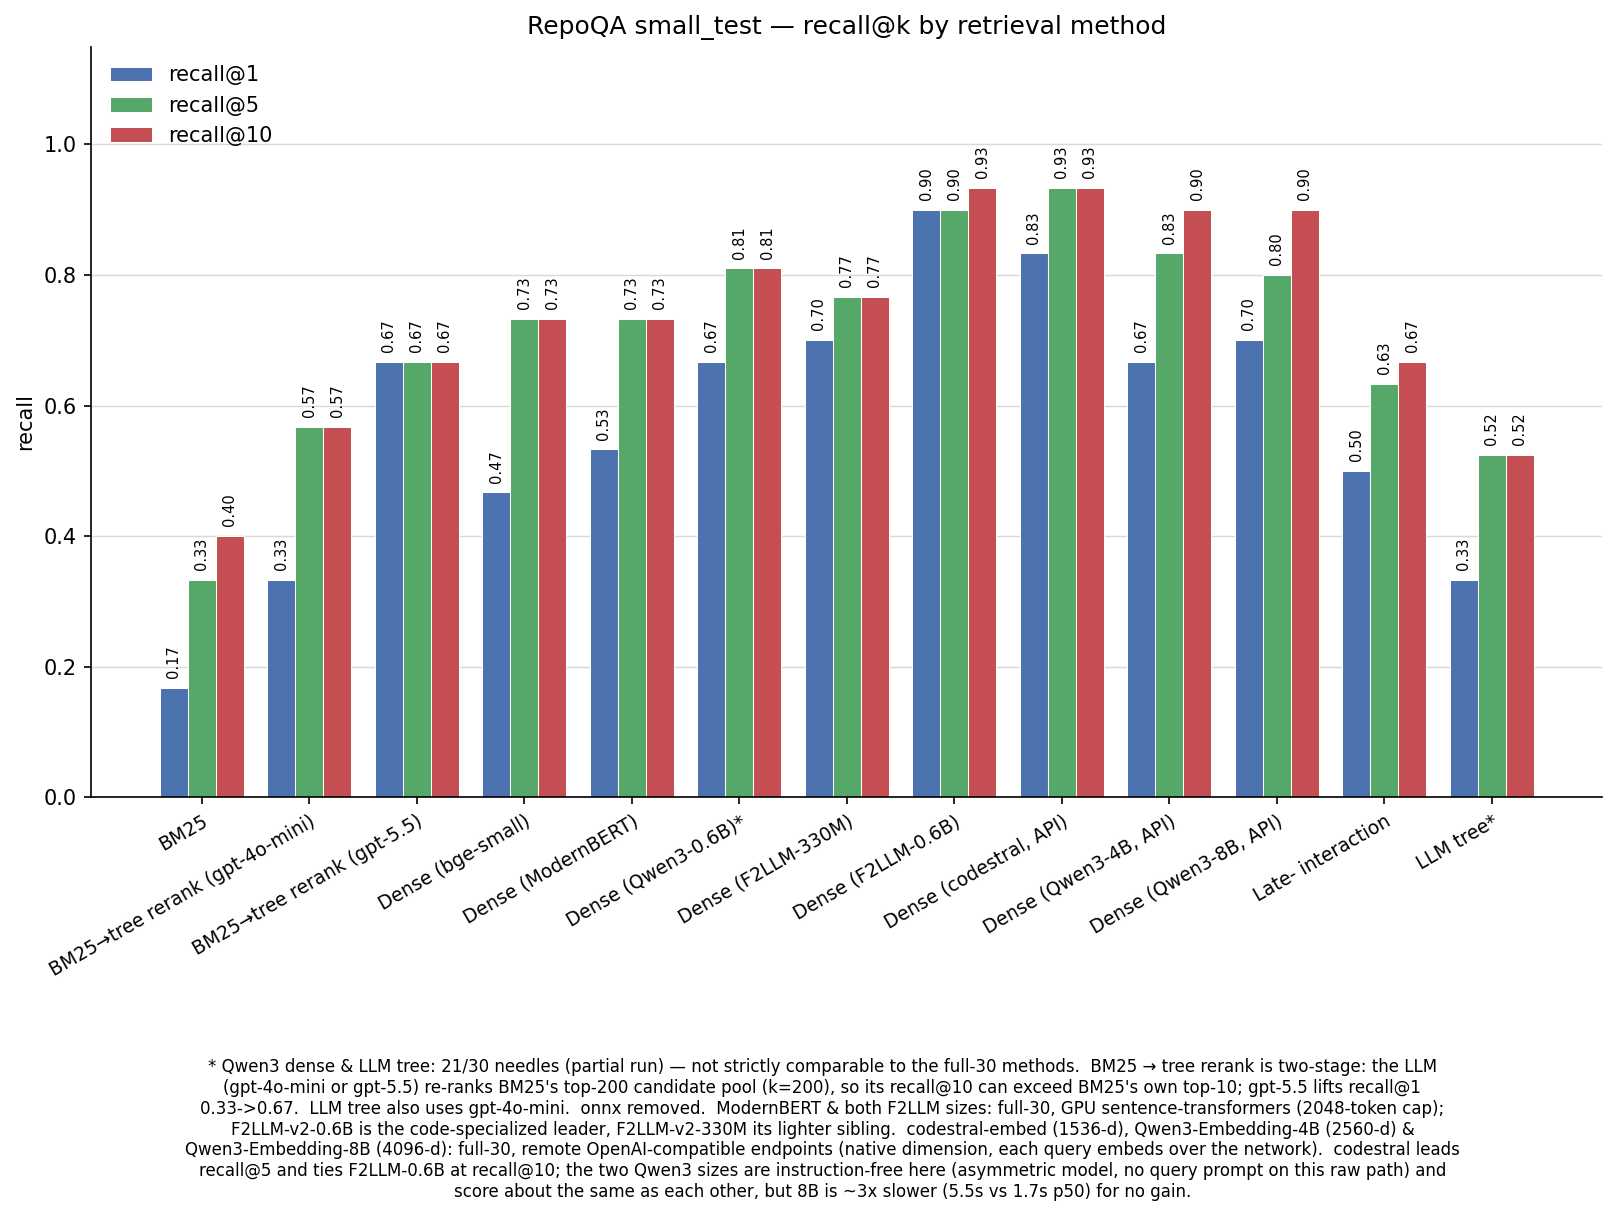
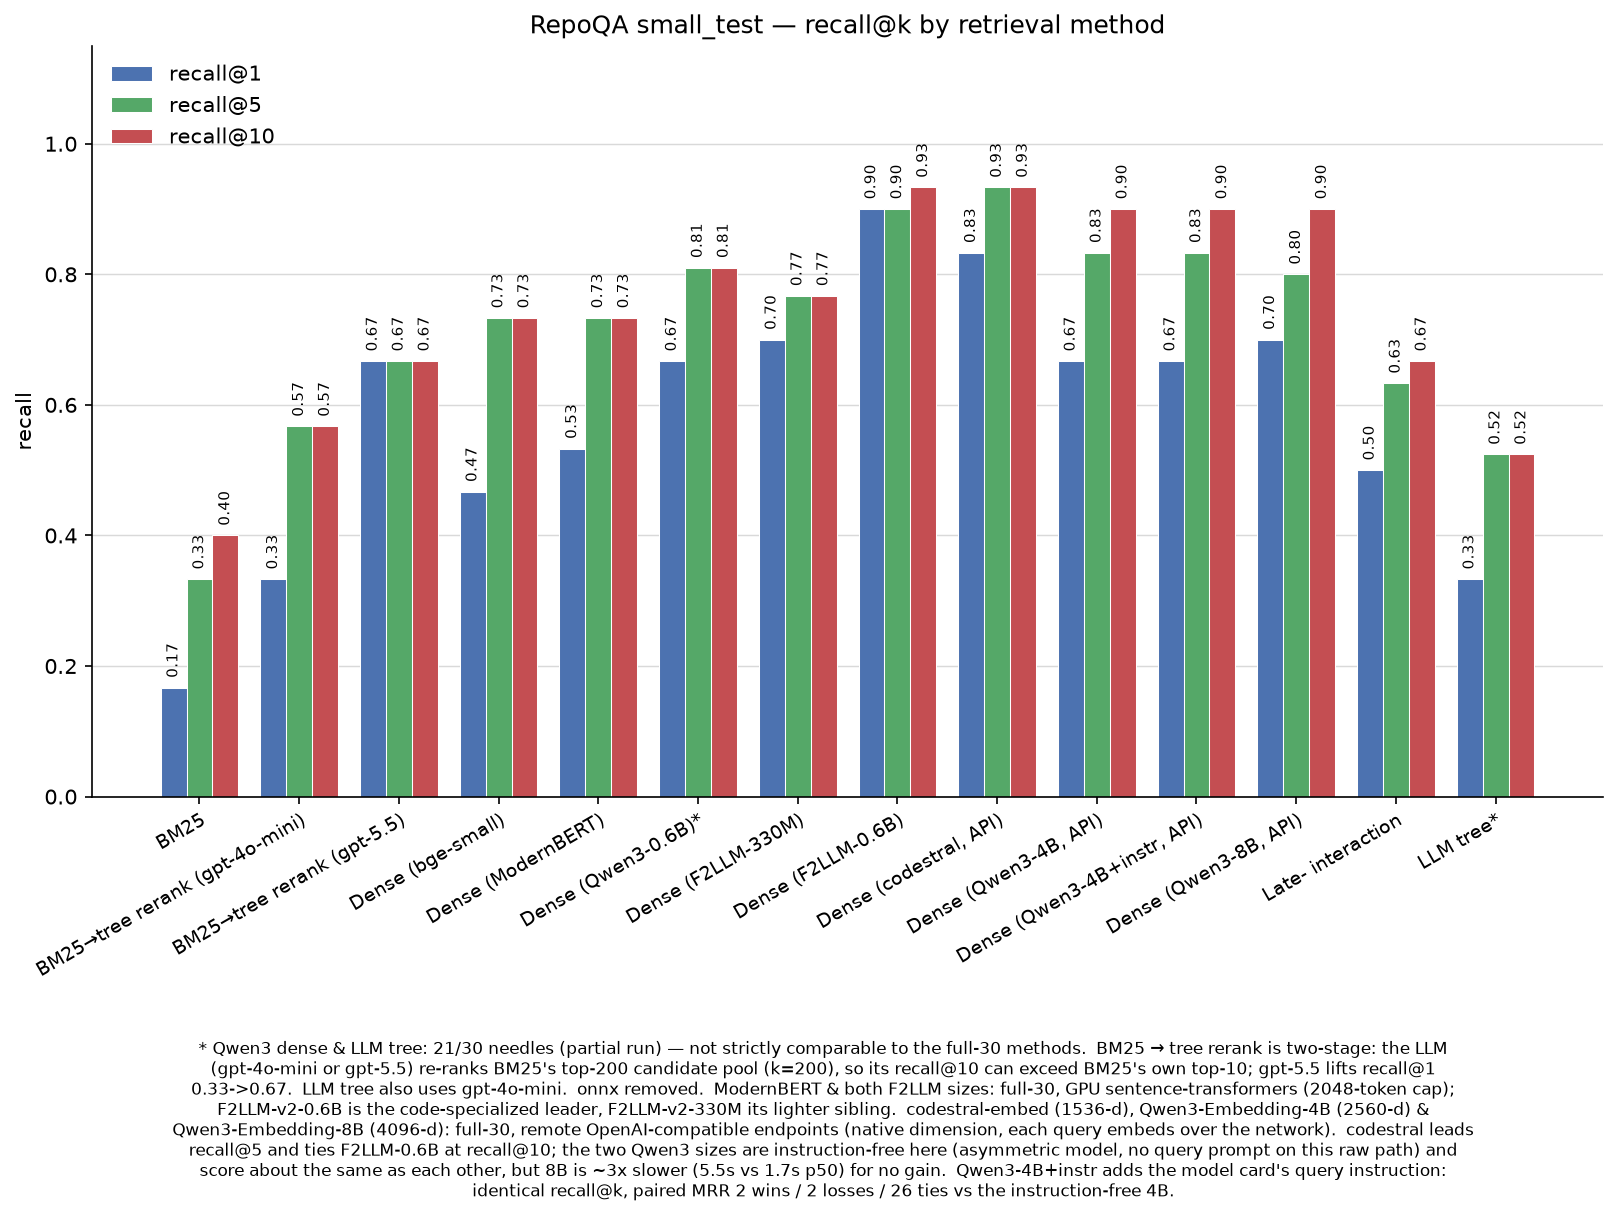
bench(embedding): RepoQA comparison — Qwen3-4B query instruction
Paired RepoQA small_test sweep (30 needles) over three arms:
qwen3_4b (instruction-free), qwen3_4b_instruct (the model card's generic
query instruction via embedding.query_prefix), and the qwen3_4b_rerun
A/A arm. All three share one ingestion hash; only the instruct arm's
query identity differs.

- recall@1/5/10 are the same in every arm (0.667 / 0.833 / 0.900).
- instruct MRR is 0.751 vs 0.740. Paired MRR is 2 wins, 2 losses and
  26 ties (sign test p = 1.0). recall@5 and recall@10 tie on all 30
  needles.
- The A/A arm has 0 discordant needles, so the endpoint is deterministic.

No paired gain, so the full test split and the repoqa-structural gate
were not run. query_prefix is not a recommended setting for Qwen3-4B on
this workload; the product default stays None. Embedding spend was about
$0.44.

Records the row in baselines/method_comparison.json, regenerates both
charts, corrects the README takeaway that blamed the missing instruction
for recall@1, and documents the numbers in the candidate config header.

diff --git a/benchmarks/scripts/plot_method_comparison.py b/benchmarks/scripts/plot_method_comparison.py
@@ -65,7 +65,9 @@ _BAR_FOOTNOTE = (
     "full-30, remote OpenAI-compatible endpoints (native dimension, each query embeds over "
     "the network).  codestral leads recall@5 and ties F2LLM-0.6B at recall@10; the two Qwen3 "
     "sizes are instruction-free here (asymmetric model, no query prompt on this raw path) and "
-    "score about the same as each other, but 8B is ~3x slower (5.5s vs 1.7s p50) for no gain."
+    "score about the same as each other, but 8B is ~3x slower (5.5s vs 1.7s p50) for no gain.  "
+    "Qwen3-4B+instr adds the model card's query instruction: identical recall@k, paired "
+    "MRR 2 wins / 2 losses / 26 ties vs the instruction-free 4B."
 )
 _SCATTER_FOOTNOTE = (
     "Per-needle p50 search latency (excludes one-time indexing).  Local methods are "
@@ -150,6 +152,10 @@ _LABEL_OFFSETS: dict[str, tuple[int, int]] = {
     # Qwen3-4B & Qwen3-8B sit at the same recall@10 (0.90); drop the 4B label
     # below its dot so its rightward text does not collide with the 8B label.
     "Dense (Qwen3-4B, API)": (4, -16),
+    # The instructed 4B also sits at recall@10 0.90, just left of codestral
+    # (1.19s, 0.93). Labels right of or below it collide with codestral, the
+    # 4B and Qwen3-0.6B, so put it LEFT of its dot, where the band is empty.
+    "Dense (Qwen3-4B+instr, API)": (-165, -4),
 }
 _DEFAULT_LABEL_OFFSET = (9, 5)
 

diff --git a/benchmarks/README.md b/benchmarks/README.md
@@ -631,6 +631,7 @@ live in [`notebooks/`](../notebooks/)). Higher is better.
 | **Dense (F2LLM-v2-0.6B, 1024-d)** | `dense_f2llm.yaml` | **0.900** | **0.900** | **0.933** | **0.906** | 30 |
 | **Dense (codestral-embed, 1536-d, remote API)** | `codestral.yaml` | 0.833 | **0.933** | **0.933** | 0.883 | 30 |
 | Dense (Qwen3-Embedding-4B, 2560-d, remote API) | `qwen3_4b.yaml` | 0.667 | 0.833 | 0.900 | 0.740 | 30 |
+| Dense (Qwen3-Embedding-4B + query instruction, remote API) | `qwen3_4b_instruct.yaml` | 0.667 | 0.833 | 0.900 | 0.751 | 30 |
 | Dense (Qwen3-Embedding-8B, 4096-d, remote API) | `qwen3_8b.yaml` | 0.700 | 0.800 | 0.900 | 0.751 | 30 |
 | Late-interaction (ColBERT / MaxSim) | `li.yaml` | 0.500 | 0.633 | 0.667 | 0.549 | 30 |
 | LLM tree reasoning (gpt-4o-mini) | `tree.yaml` | 0.333 | 0.524 | 0.524 | 0.398 | 21\* |
@@ -652,12 +653,19 @@ live in [`notebooks/`](../notebooks/)). Higher is better.
 > (~1.2–5.5s) is one-to-two orders of magnitude above the on-device dense
 > embedders. **Qwen3-Embedding is asymmetric** — it expects an instruction
 > prepended to queries — but this raw API path sends the query text verbatim (no
-> instruction), so both Qwen3 API rows are **instruction-free baselines** and
-> understate the models' instruction-tuned ceiling. The on-device Qwen3-0.6B row
+> instruction), so the `qwen3_4b.yaml` and `qwen3_8b.yaml` rows are
+> **instruction-free baselines**. The on-device Qwen3-0.6B row
 > (`dense_st.yaml`) is *not* instruction-free: sentence-transformers'
 > `encode_query` applies the checkpoint's generic web-search query prompt
-> automatically. `qwen3_4b_instruct.yaml` adds that same instruction to the 4B
-> API path via `embedding.query_prefix`.
+> automatically. `qwen3_4b_instruct.yaml` adds that same model-card instruction
+> to the 4B API path via `embedding.query_prefix` (queries only; documents and
+> the index are unchanged). It was run in the same sweep as a fresh `qwen3_4b.yaml`
+> arm and an identical A/A re-run. The A/A arm matched the baseline on all 30
+> needles, so the endpoint is deterministic. The instruction changed the rank on
+> only 4 of 30 needles: 2 moved up and 2 moved down, and no needle moved into or
+> out of the top 5 or top 10. MRR went from 0.740 to 0.751, which is not
+> significant. The latency gap is network variance: in that sweep the baseline
+> p50 was 1.37 s and the A/A p50 was 1.33 s.
 > **BM25 → tree rerank** is the lone two-stage method: the LLM (gpt-4o-mini or
 > gpt-5.5) re-ranks BM25's **top-200** candidate pool (`k=200`), which is why its
 > recall@10 can exceed BM25's own top-10; the rest are single-stage. Swapping the
@@ -708,10 +716,11 @@ is not better.** Both the 4B (2560-d) and 8B (4096-d) reach recall@10 **0.90** b
 only recall@1 **0.67–0.70** / recall@5 **0.80–0.83** / MRR **0.74–0.75**, and in a
 paired per-needle comparison **codestral wins or ties every one of the 30 needles**
 against each (neither Qwen3 size ever beats it). They edge the default bge-small
-(though not cleanly — a couple of dropped needles each). The modest recall@1 is the
-expected cost of the **instruction-free** setup: Qwen3-Embedding is asymmetric and
-this raw API path gives it no query instruction, which most blunts *rank-1*
-sharpness. Most striking, **doubling the model from 4B to 8B buys nothing here** —
+(though not cleanly — a couple of dropped needles each). The modest recall@1 is
+**not** explained by the missing query instruction. Adding the model card's
+generic instruction (`qwen3_4b_instruct.yaml`) leaves recall@1/5/10 unchanged,
+with 2 needles won, 2 lost and 26 tied on MRR. A code-specific instruction wording
+was not tried, because tuning the wording on this split would overfit it. Most striking, **doubling the model from 4B to 8B buys nothing here** —
 paired, the two are statistically indistinguishable (20–27 of 30 needles tie, wins
 ≈ losses), yet the 8B is **~3× slower** (p50 search **5.5s** vs 1.7s) from the
 larger model and 4096-d payloads over the network. Net: on this instruction-free
